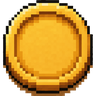
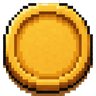
v32.1: light/latte rework; phase colours carry the theme; navigator-true totals; named averages; blocker grant feedback; coin cap; real rose leaves
Themes: v32's pure-white + blue LIGHT was eye-straining. LIGHT now wears
the old latte cream palette with the peach accent darkened a notch
(FE640B -> E85C0A); LATTE went darker -- deep cream EFE2C2, coffee-brown
text 3E2F23, coffee accent 6F4E37, caramel break. Accent uniqueness
across all six themes still test-pinned.

Home screen: PixelTheme.phaseColor returns the theme ACCENT during FOCUS
(the per-theme work greens all read alike; work stays for the money
tracker); the countdown and SESSION 1/4 follow the phase colour in clean
mode. Garden mode keeps the light legibility colour (v19 rule).

Stats: totals (TODAY/WEEK/MONTH/YEAR) were computed at the real now while
the chart and BY LABEL follow the navigator offset -- after paging back
they read one period ahead. Now computed at the same anchorFor anchor.

Averages named: the TREND block's AVERAGE row says DAILY/WEEKLY/MONTHLY/
YEARLY AVERAGE per the selected period (ALL TIME buckets by year ->
YEARLY AVERAGE). New avg* strings x6 languages.

Blocker: the permission dialog re-checks both permissions when the app
resumes from the system settings and renders granted rows struck through
and un-tappable, so it is visible which requests are already done.

Coin: cleared a 3-source-row flat dark cap above the disc's curved rim
(extraction leftover -- the stray black pixels visible at 26px).

Rose: the stems' symmetric 2/3/2 leaf blobs redrawn as pointed tapered
[…]

Changed region(s): [[0.375, 0.0, 0.625, 0.0312]]

diff --git a/flutter/lib/main.dart b/flutter/lib/main.dart
@@ -199,6 +199,11 @@ class HomeScreen extends StatelessWidget {
         // over the dark garden the foreground text must be LIGHT — on light themes
         // th.onSurface is dark and was unreadable / looked "darkened" (#v19 #6).
         final overGarden = garden ? const Color(0xFFF4F4F4) : col(th.onSurface);
+        // the countdown + SESSION follow the phase colour (theme accent while
+        // focusing, break colour on a break) so the main screen carries each
+        // theme's identity (#v32.1); in garden mode they keep the light
+        // legibility colour — the v19 rule stands.
+        final phaseText = garden ? overGarden : col(modeColor);
         final timeText = pomodoro ? e.formattedTime() : s.stopwatch.formattedTime();
         final timerBlock = Column(
           mainAxisSize: MainAxisSize.min,
@@ -209,7 +214,7 @@ class HomeScreen extends StatelessWidget {
             secondaryBtn(th, lang, s.currentLabel, () => openPanel(context, s, () => LabelScreen(s)),
                 fontSize: 11, padding: const EdgeInsets.all(10)),
             const SizedBox(height: 28),
-            Text(timeText, style: pixelStyle(lang, 48, overGarden, text: timeText).copyWith(shadows: shadows)),
+            Text(timeText, style: pixelStyle(lang, 48, phaseText, text: timeText).copyWith(shadows: shadows)),
             const SizedBox(height: 32),
             // no fixed duration in stopwatch mode, so no "% complete" to show
             // (#v31.16) — a plain gap keeps the buttons from crowding the clock
@@ -236,7 +241,7 @@ class HomeScreen extends StatelessWidget {
         // "SESSION X/Y" only means anything in pomodoro mode (#v31.16)
         final sessionText = pomodoro
             ? Text(tf(lang, 'session', [e.session, e.totalSessions]),
-                style: pixelStyle(lang, 12, garden ? overGarden : col(th.onSurfaceDim), text: tf(lang, 'session', [e.session, e.totalSessions])).copyWith(shadows: shadows))
+                style: pixelStyle(lang, 12, phaseText, text: tf(lang, 'session', [e.session, e.totalSessions])).copyWith(shadows: shadows))
             : const SizedBox.shrink();
 
         return Scaffold(
@@ -592,54 +597,111 @@ class _SettingsScreenState extends State<SettingsScreen> {
       return;
     }
     if (!context.mounted) return;
-    final th = s.theme;
-    final lang = s.lang;
     showDialog(
       context: context,
-      builder: (ctx) => AlertDialog(
-        backgroundColor: col(th.panel),
-        title: Text(t(lang, 'blockerPermTitle'),
-            style: pixelStyle(lang, 12, col(th.onSurface), text: t(lang, 'blockerPermTitle'))),
-        content: Text(t(lang, 'blockerPermBody'),
-            style: pixelStyle(lang, 10, col(th.onSurfaceDim), text: t(lang, 'blockerPermBody'))),
-        actions: [
-          TextButton(
-              onPressed: openAccessibilitySettings,
-              child: Text(t(lang, 'grantAccess'),
-                  style: pixelStyle(lang, 10, col(th.accent), text: t(lang, 'grantAccess')))),
-          TextButton(
-              onPressed: openOverlaySettings,
-              child: Text(t(lang, 'grantOverlay'),
-                  style: pixelStyle(lang, 10, col(th.accent), text: t(lang, 'grantOverlay')))),
-          TextButton(
-              onPressed: () async {
-                Navigator.pop(ctx);
-                if (await hasAccessibility() && await hasOverlay()) s.setAppBlocker(true);
-              },
-              child: Text(t(lang, 'done'),
-                  style: pixelStyle(lang, 10, col(th.onSurface), text: t(lang, 'done')))),
-        ],
-      ),
+      builder: (ctx) => _BlockerPermDialog(s),
     );
   }
 
   Widget _stepper(PixelTheme th, String lang, String label, int value, int min, int max, int step, ValueChanged<int> onChange) {
-    return Padding(
-      padding: const EdgeInsets.only(bottom: 16),
-      child: Row(
-        children: [
-          Expanded(child: Text(label, style: pixelStyle(lang, 11, col(th.onSurfaceDim), text: label))),
-          SizedBox(width: 52, child: secondaryBtn(th, lang, '-', () => onChange((value - step).clamp(min, max).toInt()), padding: const EdgeInsets.all(12))),
-          Container(
-            width: 56,
-            alignment: Alignment.center,
-            child: Text('$value', style: pixelStyle(lang, 14, col(th.onSurface), text: '$value')),
-          ),
-          SizedBox(width: 52, child: secondaryBtn(th, lang, '+', () => onChange((value + step).clamp(min, max).toInt()), padding: const EdgeInsets.all(12))),
-        ],
-      ),
+    return _stepperRow(th, lang, label, value, min, max, step, onChange);
+  }
+}
+
+/// The app-blocker permission dialog (#v23), now with live feedback (#v32.1):
+/// when the user hops to system settings, grants a permission, and comes back,
+/// the granted row re-checks on app resume and renders STRUCK THROUGH — so
+/// it's visible which requests are already done instead of two identical
+/// buttons giving no feedback.
+class _BlockerPermDialog extends StatefulWidget {
+  final AppStore s;
+  const _BlockerPermDialog(this.s);
+  @override
+  State<_BlockerPermDialog> createState() => _BlockerPermDialogState();
+}
+
+class _BlockerPermDialogState extends State<_BlockerPermDialog> with WidgetsBindingObserver {
+  bool _access = false;
+  bool _overlay = false;
+
+  @override
+  void initState() {
+    super.initState();
+    WidgetsBinding.instance.addObserver(this);
+    _recheck();
+  }
+
+  @override
+  void dispose() {
+    WidgetsBinding.instance.removeObserver(this);
+    super.dispose();
+  }
+
+  @override
+  void didChangeAppLifecycleState(AppLifecycleState state) {
+    // returning from the system settings pages lands here
+    if (state == AppLifecycleState.resumed) _recheck();
+  }
+
+  Future<void> _recheck() async {
+    final a = await hasAccessibility();
+    final o = await hasOverlay();
+    if (!mounted) return;
+    setState(() {
+      _access = a;
+      _overlay = o;
+    });
+  }
+
+  @override
+  Widget build(BuildContext context) {
+    final s = widget.s;
+    final th = s.theme;
+    final lang = s.lang;
+    Widget grantRow(String key, bool granted, VoidCallback open) => TextButton(
+          onPressed: granted ? null : open,
+          child: Text(t(lang, key),
+              style: pixelStyle(lang, 10, col(granted ? th.onSurfaceDim : th.accent), text: t(lang, key))
+                  .copyWith(decoration: granted ? TextDecoration.lineThrough : null,
+                      decorationColor: col(th.onSurfaceDim))),
+        );
+    return AlertDialog(
+      backgroundColor: col(th.panel),
+      title: Text(t(lang, 'blockerPermTitle'),
+          style: pixelStyle(lang, 12, col(th.onSurface), text: t(lang, 'blockerPermTitle'))),
+      content: Text(t(lang, 'blockerPermBody'),
+          style: pixelStyle(lang, 10, col(th.onSurfaceDim), text: t(lang, 'blockerPermBody'))),
+      actions: [
+        grantRow('grantAccess', _access, openAccessibilitySettings),
+        grantRow('grantOverlay', _overlay, openOverlaySettings),
+        TextButton(
+            onPressed: () async {
+              Navigator.pop(context);
+              if (await hasAccessibility() && await hasOverlay()) s.setAppBlocker(true);
+            },
+            child: Text(t(lang, 'done'),
+                style: pixelStyle(lang, 10, col(th.onSurface), text: t(lang, 'done')))),
+      ],
     );
   }
+}
+
+Widget _stepperRow(PixelTheme th, String lang, String label, int value, int min, int max, int step, ValueChanged<int> onChange) {
+  return Padding(
+    padding: const EdgeInsets.only(bottom: 16),
+    child: Row(
+      children: [
+        Expanded(child: Text(label, style: pixelStyle(lang, 11, col(th.onSurfaceDim), text: label))),
+        SizedBox(width: 52, child: secondaryBtn(th, lang, '-', () => onChange((value - step).clamp(min, max).toInt()), padding: const EdgeInsets.all(12))),
+        Container(
+          width: 56,
+          alignment: Alignment.center,
+          child: Text('$value', style: pixelStyle(lang, 14, col(th.onSurface), text: '$value')),
+        ),
+        SizedBox(width: 52, child: secondaryBtn(th, lang, '+', () => onChange((value + step).clamp(min, max).toInt()), padding: const EdgeInsets.all(12))),
+      ],
+    ),
+  );
 }
 
 // ---- app blocker: app picker (#v23) -----------------------------------------
@@ -920,7 +982,12 @@ class StatsScreen extends StatelessWidget {
     final th = s.theme;
     final lang = s.lang;
     final now = DateTime.now();
-    final totals = StatsAggregator.aggregate(s.records, now);
+    // totals follow the ◀▶ navigator like everything else on this screen —
+    // they used to stay pinned to the real now, so after paging back the
+    // TODAY/WEEK/MONTH/YEAR rows read one period AHEAD of the chart and
+    // BY LABEL below them (#v32.1).
+    final statAnchor = StatsAggregator.anchorFor(now, s.statPeriod, s.statOffset);
+    final totals = StatsAggregator.aggregate(s.records, statAnchor);
     final byLabel = StatsAggregator.byLabelInWindow(s.records, now, s.statPeriod, s.statOffset);
     final trend = s.chartMode == ChartMode.line;
     // TREND + DAILY shows the day filling up hour by hour; everything else is per-bucket totals.
@@ -1014,7 +1081,17 @@ class StatsScreen extends StatelessWidget {
       const SizedBox(height: 16),
       if (trend) ...[
         statRow(t(lang, 'statCurrent'), stats.$1),
-        statRow(t(lang, 'statAverage'), stats.$2),
+        // name WHICH average this is — periodStats buckets by the selected
+        // period's unit (ALL TIME buckets by year), and a bare "AVERAGE"
+        // left that unit invisible (#v32.1)
+        statRow(
+            t(lang, switch (s.statPeriod) {
+              StatPeriod.daily => 'avgDaily',
+              StatPeriod.weekly => 'avgWeekly',
+              StatPeriod.monthly => 'avgMonthly',
+              StatPeriod.yearly || StatPeriod.allTime => 'avgYearly',
+            }),
+            stats.$2),
         statRow(t(lang, 'statBest'), stats.$3),
       ] else ...[
         statRow(t(lang, 'today'), totals.today),

diff --git a/flutter/lib/strings.dart b/flutter/lib/strings.dart
@@ -28,6 +28,8 @@ const Map<String, Map<String, String>> _s = {
     'year': 'THIS YEAR', 'all': 'ALL TIME', 'byLabelMonth': 'BY LABEL · {0}',
     'chartBar': 'BAR', 'chartLine': 'TREND', 'chartPie': 'PIE', 'chartNoData': 'No focus minutes this month.',
     'statCurrent': 'CURRENT', 'statAverage': 'AVERAGE', 'statBest': 'BEST',
+    'avgDaily': 'DAILY AVERAGE', 'avgWeekly': 'WEEKLY AVERAGE',
+    'avgMonthly': 'MONTHLY AVERAGE', 'avgYearly': 'YEARLY AVERAGE',
     'pDaily': 'DAILY', 'pWeekly': 'WEEKLY', 'pMonthly': 'MONTHLY', 'pYearly': 'YEARLY', 'pAll': 'ALL', 'byLabel': 'BY LABEL',
     'p18Weeks': '18 WEEKS',
     'shop': 'SHOP', 'buy': 'BUY', 'owned': 'OWNED {0}', 'notEnough': 'NOT ENOUGH COINS',
@@ -99,6 +101,8 @@ const Map<String, Map<String, String>> _s = {
     'year': 'BU YIL', 'all': 'TÜM ZAMANLAR', 'byLabelMonth': 'ETİKETE GÖRE · {0}',
     'chartBar': 'ÇUBUK', 'chartLine': 'TREND', 'chartPie': 'PASTA', 'chartNoData': 'Bu ay odak dakikası yok.',
     'statCurrent': 'MEVCUT', 'statAverage': 'ORTALAMA', 'statBest': 'EN İYİ',
+    'avgDaily': 'GÜNLÜK ORTALAMA', 'avgWeekly': 'HAFTALIK ORTALAMA',
+    'avgMonthly': 'AYLIK ORTALAMA', 'avgYearly': 'YILLIK ORTALAMA',
     'pDaily': 'GÜNLÜK', 'pWeekly': 'HAFTALIK', 'pMonthly': 'AYLIK', 'pYearly': 'YILLIK', 'pAll': 'TÜMÜ', 'byLabel': 'ETİKETE GÖRE',
     'p18Weeks': '18 HAFTA',
     'shop': 'MAĞAZA', 'buy': 'AL', 'owned': 'SAHİP {0}', 'notEnough': 'YETERLİ ALTIN YOK',
@@ -170,6 +174,8 @@ const Map<String, Map<String, String>> _s = {
     'year': 'TEN ROK', 'all': 'CAŁY CZAS', 'byLabelMonth': 'WG ETYKIETY · {0}',
     'chartBar': 'SŁUPKI', 'chartLine': 'TREND', 'chartPie': 'KOŁO', 'chartNoData': 'Brak minut w tym miesiącu.',
     'statCurrent': 'OBECNY', 'statAverage': 'ŚREDNIA', 'statBest': 'NAJLEPSZY',
+    'avgDaily': 'ŚREDNIA DZIENNA', 'avgWeekly': 'ŚREDNIA TYGODNIOWA',
+    'avgMonthly': 'ŚREDNIA MIESIĘCZNA', 'avgYearly': 'ŚREDNIA ROCZNA',
     'pDaily': 'DZIENNE', 'pWeekly': 'TYGODNIE', 'pMonthly': 'MIESIĄC', 'pYearly': 'ROCZNE', 'pAll': 'WSZYSTKO', 'byLabel': 'WG ETYKIETY',
     'p18Weeks': '18 TYGODNI',
     'shop': 'SKLEP', 'buy': 'KUP', 'owned': 'MASZ {0}', 'notEnough': 'ZA MAŁO MONET',
@@ -241,6 +247,8 @@ const Map<String, Map<String, String>> _s = {
     'year': 'DIESES JAHR', 'all': 'GESAMT', 'byLabelMonth': 'NACH LABEL · {0}',
     'chartBar': 'BALKEN', 'chartLine': 'TREND', 'chartPie': 'KREIS', 'chartNoData': 'Keine Minuten in diesem Monat.',
     'statCurrent': 'AKTUELL', 'statAverage': 'DURCHSCHN', 'statBest': 'BESTE',
+    'avgDaily': 'TAGESDURCHSCHNITT', 'avgWeekly': 'WOCHENDURCHSCHNITT',
+    'avgMonthly': 'MONATSDURCHSCHNITT', 'avgYearly': 'JAHRESDURCHSCHNITT',
     'pDaily': 'TÄGLICH', 'pWeekly': 'WÖCHENTL', 'pMonthly': 'MONATL', 'pYearly': 'JÄHRL', 'pAll': 'GESAMT', 'byLabel': 'NACH LABEL',
     'p18Weeks': '18 WOCHEN',
     'shop': 'SHOP', 'buy': 'KAUFEN', 'owned': 'BESITZ {0}', 'notEnough': 'ZU WENIG MÜNZEN',
@@ -312,6 +320,8 @@ const Map<String, Map<String, String>> _s = {
     'year': 'CETTE ANNÉE', 'all': 'TOUT', 'byLabelMonth': 'PAR ÉTIQUETTE · {0}',
     'chartBar': 'BARRES', 'chartLine': 'TENDANCE', 'chartPie': 'CAMEMBERT', 'chartNoData': 'Aucune minute ce mois-ci.',
     'statCurrent': 'ACTUEL', 'statAverage': 'MOYENNE', 'statBest': 'MEILLEUR',
+    'avgDaily': 'MOYENNE QUOTIDIENNE', 'avgWeekly': 'MOYENNE HEBDO',
+    'avgMonthly': 'MOYENNE MENSUELLE', 'avgYearly': 'MOYENNE ANNUELLE',
     'pDaily': 'JOUR', 'pWeekly': 'SEMAINE', 'pMonthly': 'MOIS', 'pYearly': 'ANNÉE', 'pAll': 'TOUT', 'byLabel': 'PAR ÉTIQUETTE',
     'p18Weeks': '18 SEMAINES',
     'shop': 'BOUTIQUE', 'buy': 'ACHETER', 'owned': 'POSSÉDÉ {0}', 'notEnough': 'PAS ASSEZ DE PIÈCES',
@@ -383,6 +393,8 @@ const Map<String, Map<String, String>> _s = {
     'year': 'QUEST\'ANNO', 'all': 'SEMPRE', 'byLabelMonth': 'PER ETICHETTA · {0}',
     'chartBar': 'BARRE', 'chartLine': 'TREND', 'chartPie': 'TORTA', 'chartNoData': 'Nessun minuto questo mese.',
     'statCurrent': 'ATTUALE', 'statAverage': 'MEDIA', 'statBest': 'MIGLIORE',
+    'avgDaily': 'MEDIA GIORNALIERA', 'avgWeekly': 'MEDIA SETTIMANALE',
+    'avgMonthly': 'MEDIA MENSILE', 'avgYearly': 'MEDIA ANNUALE',
     'pDaily': 'GIORNO', 'pWeekly': 'SETTIMANA', 'pMonthly': 'MESE', 'pYearly': 'ANNO', 'pAll': 'TUTTO', 'byLabel': 'PER ETICHETTA',
     'p18Weeks': '18 SETTIMANE',
     'shop': 'NEGOZIO', 'buy': 'COMPRA', 'owned': 'POSSEDUTI {0}', 'notEnough': 'MONETE INSUFFICIENTI',

diff --git a/flutter/lib/logic.dart b/flutter/lib/logic.dart
@@ -136,7 +136,11 @@ class PixelTheme {
     required this.shadow,
   });
 
-  int phaseColor(Mode m) => m == Mode.work ? work : breakColor;
+  // FOCUS wears the theme's own accent so the home screen carries each
+  // theme's identity (the per-theme `work` greens all read the same, #v32.1);
+  // BREAK keeps the per-theme break colour. `work` itself stays for the
+  // money tracker's income/expense colouring.
+  int phaseColor(Mode m) => m == Mode.work ? accent : breakColor;
 }
 
 class Themes {
@@ -145,15 +149,15 @@ class Themes {
       bg: 0xFF161616, panel: 0xFF262626, accent: 0xFFFF5A5F, work: 0xFF46E08A,
       breakColor: 0xFF58A6FF, onSurface: 0xFFF4F4F4, onSurfaceDim: 0xFF8E8E8E,
       onAccent: 0xFF1A1A1A, shadow: 0xFF000000);
-  // Every theme gets its OWN accent hue (#v32 — dark coral / light blue /
-  // mocha pink / frappe teal / latte peach / matcha green). Four of the six
-  // used to sit in the same red family, so light/latte/frappe read as
-  // re-tinted copies of dark instead of themes with their own character.
+  // Every theme gets its OWN accent hue (#v32; light/latte reworked #v32.1 —
+  // the pure-white bg + blue accent light theme "tired the eyes": LIGHT now
+  // wears the old latte cream palette with a slightly darker peach accent,
+  // and LATTE went darker — deep cream + coffee-brown tones).
   static const light = PixelTheme(
       id: 'light', displayName: 'LIGHT',
-      bg: 0xFFF2F2F4, panel: 0xFFFFFFFF, accent: 0xFF1E66F5, work: 0xFF1F9D55,
-      breakColor: 0xFFFE640B, onSurface: 0xFF18181B, onSurfaceDim: 0xFF6E6E73,
-      onAccent: 0xFFFFFFFF, shadow: 0xFFC7C7CC);
+      bg: 0xFFF7EFDD, panel: 0xFFFFFBF0, accent: 0xFFE85C0A, work: 0xFF40A02B,
+      breakColor: 0xFF1E66F5, onSurface: 0xFF4C4F69, onSurfaceDim: 0xFF8A7F6A,
+      onAccent: 0xFFFFFFFF, shadow: 0xFFD9CBB0);
   static const mocha = PixelTheme(
       id: 'mocha', displayName: 'MOCHA',
       bg: 0xFF1E1E2E, panel: 0xFF313244, accent: 0xFFF38BA8, work: 0xFFA6E3A1,
@@ -166,9 +170,9 @@ class Themes {
       onAccent: 0xFF303446, shadow: 0xFF232634);
   static const latte = PixelTheme(
       id: 'latte', displayName: 'LATTE',
-      bg: 0xFFF7EFDD, panel: 0xFFFFFBF0, accent: 0xFFFE640B, work: 0xFF40A02B,
-      breakColor: 0xFF1E66F5, onSurface: 0xFF4C4F69, onSurfaceDim: 0xFF8A7F6A,
-      onAccent: 0xFFFFFFFF, shadow: 0xFFD9CBB0);
+      bg: 0xFFEFE2C2, panel: 0xFFF6ECD4, accent: 0xFF6F4E37, work: 0xFF40A02B,
+      breakColor: 0xFFB5793B, onSurface: 0xFF3E2F23, onSurfaceDim: 0xFF8A7355,
+      onAccent: 0xFFF7EFDD, shadow: 0xFFCDB98F);
   // a green "matcha" theme matching the garden, in the Catppuccin family (#v19)
   static const matcha = PixelTheme(
       id: 'matcha', displayName: 'MATCHA',

diff --git a/flutter/tools/gen_objects.py b/flutter/tools/gen_objects.py
@@ -346,23 +346,30 @@ _ROSE_REDS = set("dml")
 # roses read apart (user feedback #v22): variant 0 = left leaf higher / right lower
 # ("left first"); variant 1 = right higher / left lower ("right first"); variant 2 =
 # symmetric (both leaves level).
+# Leaves redrawn as real pointed leaves (#v32.1, user: "make the rose's two
+# bottom leaves more real, like the model"): each is a 3-row tapered shape —
+# a short upper edge hugging the stem, a long body reaching a 1px tip, and a
+# mid-length drooping lower edge — instead of the old symmetric 2/3/2 diamond
+# blob. The k column stays the leaf-to-stem attachment seam. NOTE: these stems
+# are SHARED by every _u()-based flower, so the whole family's leaves improve
+# together (deliberate — family consistency).
 _ROSE_STEM_OFFSET = [  # left-first
     ".......SS.......",
+    ".....GkSS.......",
+    "..GGGGkSS.......",
     "....GGkSS.......",
-    "...GGGkSS.......",
-    "....GGkSS.......",
-    ".......SSkGG....",
-    ".......SSkGGG...",
+    ".......SSkG.....",
+    ".......SSkGGGG..",
     ".......SSkGG....",
     ".......SS.......",
 ]
 _ROSE_STEM_OFFSET_R = [  # right-first (mirror of left-first)
     ".......SS.......",
+    ".......SSkG.....",
+    ".......SSkGGGG..",
     ".......SSkGG....",
-    ".......SSkGGG...",
-    ".......SSkGG....",
-    "....GGkSS.......",
-    "...GGGkSS.......",
+    ".....GkSS.......",
+    "..GGGGkSS.......",
     "....GGkSS.......",
     ".......SS.......",
 ]

diff --git a/README.md b/README.md
@@ -6,7 +6,7 @@ a living wallpaper. Built with the
 [Press Start 2P](https://fonts.google.com/specimen/Press+Start+2P) font for that
 classic arcade look.
 
-> **Status:** **v0.32.0** — one Flutter (Dart) codebase ships **both** an Android APK and an
+> **Status:** **v0.32.1** — one Flutter (Dart) codebase ships **both** an Android APK and an
 > iOS app. On top of the core timer it has a full-screen **living 2.5D garden**, an animated
 > **Android live wallpaper**, an **app blocker** to keep you off distracting apps during a focus
 > session, **session stats** with charts and history, a **coin + shop** economy, **6 themes**,
